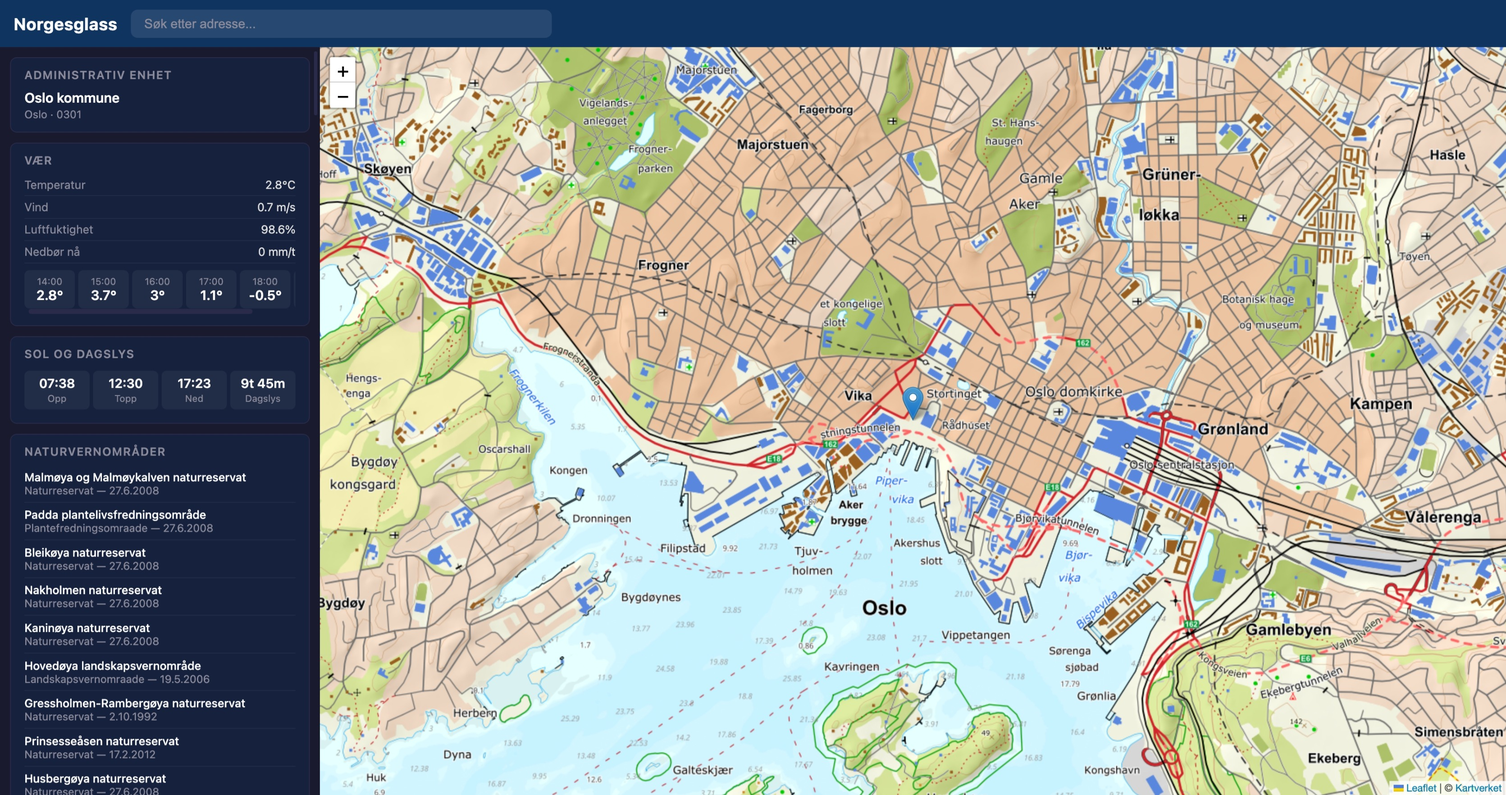
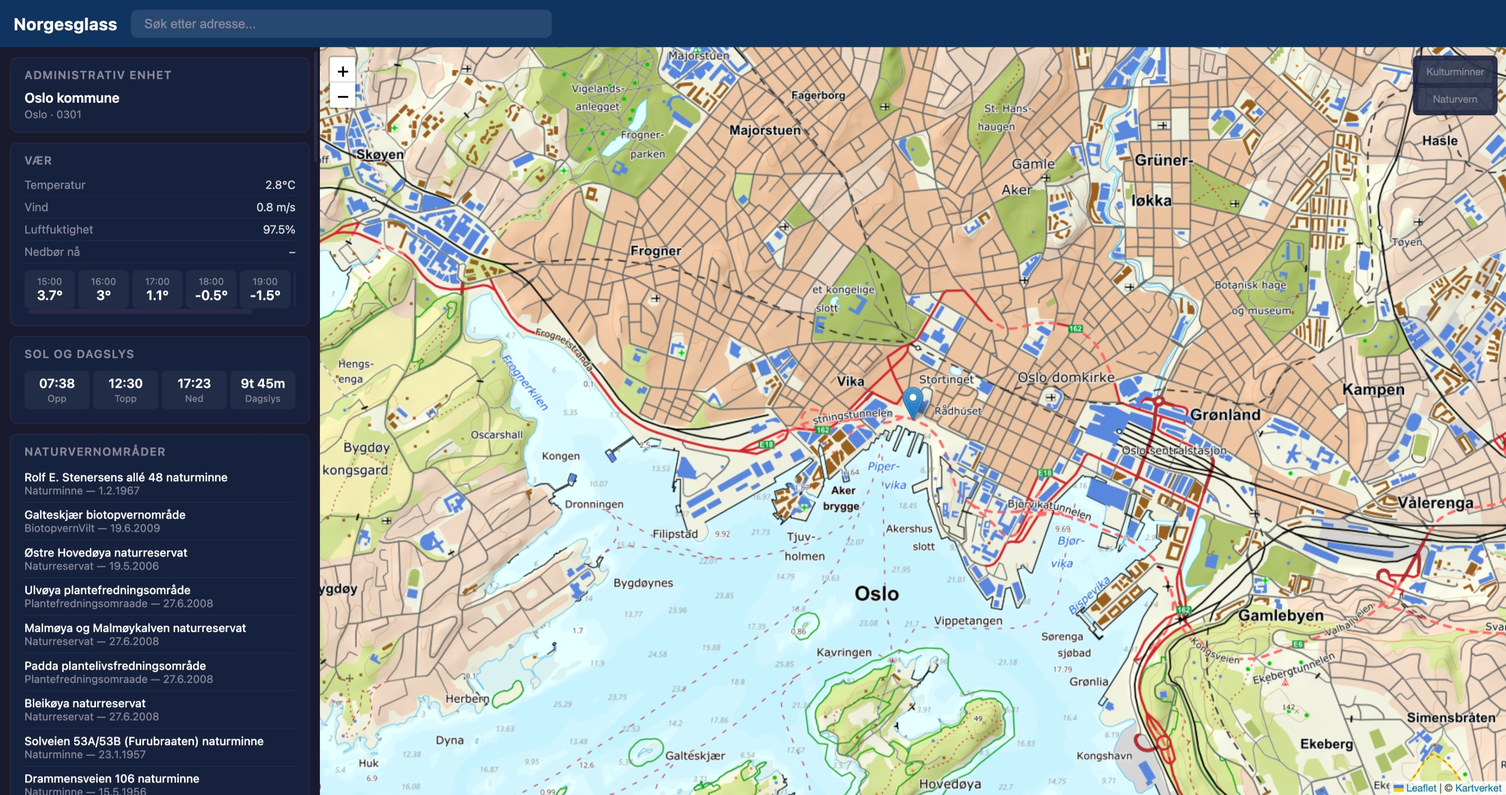
feat(map): add toggleable GeoJSON overlays for Kulturminner and Naturvern
Switch both ArcGIS API calls to return GeoJSON with geometry data.
Render features on the Leaflet map as styled polygons/markers behind
opt-in toggle buttons (amber for heritage, green for nature reserves).
Overlays persist across location changes and auto-update with new data.
Cap results at 50 features per query to bound rendering cost.

diff --git a/static/js/map.js b/static/js/map.js
@@ -10,6 +10,129 @@ var MapCtrl = (function () {
 
     var marker = null;
 
+    // -----------------------------------------------------------------------
+    // Overlay layers
+    // -----------------------------------------------------------------------
+
+    var heritageLayer = L.layerGroup();
+    var natureLayer = L.layerGroup();
+    var heritageData = null;
+    var natureData = null;
+    var overlayState = { heritage: false, nature: false };
+
+    var heritageStyle = {
+        color: '#f9a825',
+        weight: 2,
+        opacity: 0.8,
+        fillColor: '#f9a825',
+        fillOpacity: 0.25,
+    };
+
+    var natureStyle = {
+        color: '#4ecdc4',
+        weight: 2,
+        opacity: 0.8,
+        fillColor: '#4ecdc4',
+        fillOpacity: 0.25,
+    };
+
+    function renderOverlayLayer(data, layer, style) {
+        layer.clearLayers();
+        if (!data || !data.features) return;
+        L.geoJSON(data, {
+            style: style,
+            pointToLayer: function (_feature, latlng) {
+                return L.circleMarker(latlng, {
+                    radius: 7,
+                    color: style.color,
+                    weight: 2,
+                    opacity: 0.8,
+                    fillColor: style.fillColor,
+                    fillOpacity: 0.4,
+                });
+            },
+        }).addTo(layer);
+    }
+
+    function setHeritageData(geojson) {
+        heritageData = geojson;
+        if (overlayState.heritage) {
+            renderOverlayLayer(heritageData, heritageLayer, heritageStyle);
+        }
+    }
+
+    function setNatureData(geojson) {
+        natureData = geojson;
+        if (overlayState.nature) {
+            renderOverlayLayer(natureData, natureLayer, natureStyle);
+        }
+    }
+
+    function clearOverlays() {
+        heritageData = null;
+        natureData = null;
+        heritageLayer.clearLayers();
+        natureLayer.clearLayers();
+    }
+
+    // -----------------------------------------------------------------------
+    // Toggle control
+    // -----------------------------------------------------------------------
+
+    var OverlayControl = L.Control.extend({
+        options: { position: 'topright' },
+
+        onAdd: function () {
+            var container = L.DomUtil.create('div', 'overlay-toggle-control');
+            L.DomEvent.disableClickPropagation(container);
+            L.DomEvent.disableScrollPropagation(container);
+
+            var btnHeritage = L.DomUtil.create('button', 'overlay-toggle-btn', container);
+            btnHeritage.textContent = 'Kulturminner';
+            btnHeritage.type = 'button';
+            btnHeritage.setAttribute('aria-pressed', 'false');
+
+            var btnNature = L.DomUtil.create('button', 'overlay-toggle-btn', container);
+            btnNature.textContent = 'Naturvern';
+            btnNature.type = 'button';
+            btnNature.setAttribute('aria-pressed', 'false');
+
+            btnHeritage.addEventListener('click', function () {
+                overlayState.heritage = !overlayState.heritage;
+                btnHeritage.setAttribute('aria-pressed', String(overlayState.heritage));
+                if (overlayState.heritage) {
+                    btnHeritage.classList.add('active-heritage');
+                    heritageLayer.addTo(map);
+                    renderOverlayLayer(heritageData, heritageLayer, heritageStyle);
+                } else {
+                    btnHeritage.classList.remove('active-heritage');
+                    map.removeLayer(heritageLayer);
+                }
+            });
+
+            btnNature.addEventListener('click', function () {
+                overlayState.nature = !overlayState.nature;
+                btnNature.setAttribute('aria-pressed', String(overlayState.nature));
+                if (overlayState.nature) {
+                    btnNature.classList.add('active-nature');
+                    natureLayer.addTo(map);
+                    renderOverlayLayer(natureData, natureLayer, natureStyle);
+                } else {
+                    btnNature.classList.remove('active-nature');
+                    map.removeLayer(natureLayer);
+                }
+            });
+
+            return container;
+        },
+    });
+
+    new OverlayControl().addTo(map);
+
+    // -----------------------------------------------------------------------
+    // Map click
+    // -----------------------------------------------------------------------
+
     map.on('click', function (e) {
         if (typeof App !== 'undefined') {
             App.onMapClick(e.latlng.lat, e.latlng.lng);
@@ -35,6 +158,9 @@ var MapCtrl = (function () {
     return {
         placeMarker: placeMarker,
         panTo: panTo,
-        getMap: getMap
+        getMap: getMap,
+        setHeritageData: setHeritageData,
+        setNatureData: setNatureData,
+        clearOverlays: clearOverlays,
     };
 }());

diff --git a/static/js/api.js b/static/js/api.js
@@ -64,7 +64,7 @@ const API = {
     const latMax = lat + 0.05;
     const lonMin = lon - 0.05;
     const lonMax = lon + 0.05;
-    const url = `https://kart.miljodirektoratet.no/arcgis/rest/services/vern/MapServer/0/query?where=1%3D1&geometry=${lonMin},${latMin},${lonMax},${latMax}&geometryType=esriGeometryEnvelope&inSR=4326&spatialRel=esriSpatialRelIntersects&outFields=*&returnGeometry=false&f=json`;
+    const url = `https://kart.miljodirektoratet.no/arcgis/rest/services/vern/MapServer/0/query?where=1%3D1&geometry=${lonMin},${latMin},${lonMax},${latMax}&geometryType=esriGeometryEnvelope&inSR=4326&spatialRel=esriSpatialRelIntersects&outFields=*&returnGeometry=true&resultRecordCount=50&f=geojson`;
     const res = await fetch(url);
     if (!res.ok) throw new Error(`getNatureReserves failed: ${res.status}`);
     return res.json();
@@ -82,7 +82,7 @@ const API = {
     const latMax = lat + 0.005;
     const lonMin = lon - 0.005;
     const lonMax = lon + 0.005;
-    const url = `https://kart.ra.no/arcgis/rest/services/Distribusjon/Kulturminner20180301/MapServer/7/query?where=1%3D1&geometry=${lonMin},${latMin},${lonMax},${latMax}&geometryType=esriGeometryEnvelope&inSR=4326&spatialRel=esriSpatialRelIntersects&outFields=*&returnGeometry=false&f=json`;
+    const url = `https://kart.ra.no/arcgis/rest/services/Distribusjon/Kulturminner20180301/MapServer/7/query?where=1%3D1&geometry=${lonMin},${latMin},${lonMax},${latMax}&geometryType=esriGeometryEnvelope&inSR=4326&spatialRel=esriSpatialRelIntersects&outFields=*&returnGeometry=true&resultRecordCount=50&f=geojson`;
     const res = await fetch(url);
     if (!res.ok) throw new Error(`getCulturalHeritage failed: ${res.status}`);
     return res.json();

diff --git a/static/css/style.css b/static/css/style.css
@@ -473,6 +473,52 @@ body {
 
 
 /* ============================================================
+   Map Overlay Toggle Control
+   ============================================================ */
+
+.overlay-toggle-control {
+  display: flex;
+  flex-direction: column;
+  gap: 4px;
+  background: rgba(22, 33, 62, 0.9);
+  border: 1px solid var(--border);
+  border-radius: 6px;
+  padding: 4px;
+}
+
+.overlay-toggle-btn {
+  display: block;
+  padding: 6px 10px;
+  border: 1px solid var(--border);
+  border-radius: 4px;
+  background: rgba(255, 255, 255, 0.08);
+  color: var(--text-muted);
+  font-size: 0.75rem;
+  font-family: inherit;
+  cursor: pointer;
+  white-space: nowrap;
+  transition: background 0.15s, color 0.15s, border-color 0.15s;
+}
+
+.overlay-toggle-btn:hover {
+  background: rgba(255, 255, 255, 0.15);
+  color: var(--text);
+}
+
+.overlay-toggle-btn.active-heritage {
+  background: rgba(249, 168, 37, 0.2);
+  border-color: var(--warning);
+  color: var(--warning);
+}
+
+.overlay-toggle-btn.active-nature {
+  background: rgba(78, 205, 196, 0.2);
+  border-color: var(--success);
+  color: var(--success);
+}
+
+
+/* ============================================================
    Mobile (max-width: 700px)
    ============================================================ */
 

diff --git a/static/js/panels.js b/static/js/panels.js
@@ -189,7 +189,7 @@ Panels.renderNature = function (el, data) {
 
     let html = '';
     for (const feature of data.features) {
-        const attrs = feature.attributes || {};
+        const attrs = feature.properties || {};
         const navn = attrs.offisieltNavn || attrs.navn || '';
         const verneform = attrs.verneform || attrs.vernefom || '';
         let vernedato = '';
@@ -292,7 +292,7 @@ Panels.renderHeritage = function (el, data) {
 
     let html = '';
     for (const feature of data.features) {
-        const attrs = feature.attributes || {};
+        const attrs = feature.properties || {};
         const navn = attrs.navn || attrs.Navn || '';
         const kategori = attrs.kulturminneKategori || attrs.KulturminneKategori || '';
         const vern = attrs.vernetype || attrs.Vernestatus || '';

diff --git a/static/js/app.js b/static/js/app.js
@@ -52,6 +52,7 @@ var App = (function () {
 
     MapCtrl.placeMarker(lat, lon);
     MapCtrl.panTo(lat, lon);
+    MapCtrl.clearOverlays();
 
     // Scroll sidebar to top and reset all panels to loading
     var sidebar = document.getElementById('sidebar');
@@ -90,6 +91,7 @@ var App = (function () {
       .then((data) => {
         if (stale()) return;
         Panels.renderNature(els.nature, data);
+        MapCtrl.setNatureData(data);
       })
       .catch((err) => {
         if (stale()) return;
@@ -123,6 +125,7 @@ var App = (function () {
       .then((data) => {
         if (stale()) return;
         Panels.renderHeritage(els.heritage, data);
+        MapCtrl.setHeritageData(data);
       })
       .catch((err) => {
         if (stale()) return;

diff --git a/README.md b/README.md
@@ -16,10 +16,10 @@ A single-page web app that shows everything known about any Norwegian location b
 | Administrativ enhet | Kartverket | Kommune, fylke, kommunenummer |
 | Vær | MET Norway | Temperature, wind, humidity, precipitation, 6h forecast |
 | Sol og dagslys | MET Norway | Sunrise, solar noon, sunset, day length |
-| Naturvernområder | Miljødirektoratet | Nearby nature reserves, national parks, protection dates |
+| Naturvernområder | Miljødirektoratet | Nearby nature reserves, national parks, protection dates + map overlay |
 | Stedsnavn | Kartverket | Place names within 500m |
 | Geologi | NGU (via proxy) | Bedrock type, tectonic unit, sediment type |
-| Kulturminner | Riksantikvaren | Cultural heritage sites, protection status |
+| Kulturminner | Riksantikvaren | Cultural heritage sites, protection status + map overlay |
 | Hydrologi | NVE (via proxy) | Nearby measurement stations |
 | Befolkning | SSB | Municipal population (latest year) |
 | Virksomheter | Brønnøysundregistrene | Recently founded businesses in municipality |
@@ -90,7 +90,7 @@ norgesglass/
 │   ├── css/style.css        # Dark theme, responsive
 │   └── js/
 │       ├── api.js           # 12 API fetch functions (pure, no DOM)
-│       ├── map.js           # Leaflet init + Kartverket tiles
+│       ├── map.js           # Leaflet init + Kartverket tiles + GeoJSON overlays
 │       ├── panels.js        # Panel renderers (XSS-safe)
 │       └── app.js           # Orchestration, search, stale-fetch guard
 ├── Dockerfile               # Multi-stage build (alpine, runs as nobody)
@@ -106,6 +106,8 @@ norgesglass/
 **XSS protection.** Every string from an external API passes through an `esc()` function before HTML insertion. Search results use `createElement`/`textContent` instead of `innerHTML`.
 
 **Progressive panel states.** Each panel independently shows loading, error, or empty states. One API being down doesn't affect the others.
+
+**Map overlays.** Kulturminner and Naturvernområder data is fetched as GeoJSON with geometry. Toggle buttons in the top-right corner of the map render the features as styled polygons/markers (amber for heritage, green for nature reserves). Overlays persist across location changes and auto-update with new data.
 
 **No build step.** The frontend is vanilla JS with no transpilation, bundling, or node_modules. Edit a file, refresh the browser.
 
